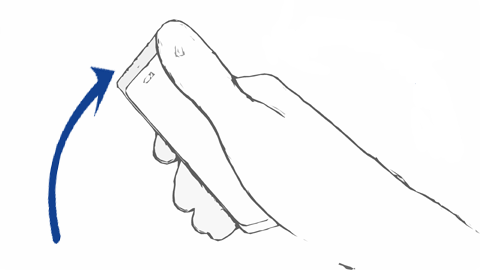
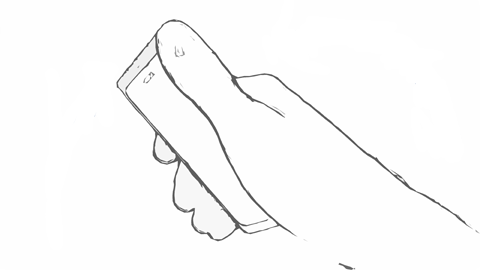
fix slam gesture to be downward only motion.

Changed region(s): [[0.0938, 0.237, 0.25, 0.9185]]

diff --git a/src/plugins/sensorgestures/qtsensors/qslamgesturerecognizer.cpp b/src/plugins/sensorgestures/qtsensors/qslamgesturerecognizer.cpp
@@ -128,8 +128,6 @@ void QSlamSensorGestureRecognizer::orientationReadingChanged(QOrientationReading
 
 #define SLAM_Y_DEGREES 15
 
-#define RADIANS_TO_DEGREES 57.2957795
-
 void QSlamSensorGestureRecognizer::accelChanged(QAccelerometerReading *reading)
 {
     const qreal x = reading->x();
@@ -155,8 +153,6 @@ void QSlamSensorGestureRecognizer::accelChanged(QAccelerometerReading *reading)
 
     const qreal difference = lastX - x;
 
-    roll = qAtan(x / qSqrt(y*y + z*z)) * RADIANS_TO_DEGREES;
-
     if (!timer->isActive()
             && detecting
             && (orientationReading->orientation() == QOrientationReading::RightUp
@@ -164,12 +160,9 @@ void QSlamSensorGestureRecognizer::accelChanged(QAccelerometerReading *reading)
             && resting) {
         timer->start();
     }
-
     if (!detecting
             && orientationReading->orientation() == QOrientationReading::TopUp
-            && roll < SLAM_Y_DEGREES
-            && (difference > accelRange * SLAM_DETECTION_FACTOR
-                || difference < -accelRange * SLAM_DETECTION_FACTOR)) {
+            && hasBeenResting()) {
         detectedX = x;
         // start of gesture
         detecting = true;
@@ -185,14 +178,23 @@ void QSlamSensorGestureRecognizer::accelChanged(QAccelerometerReading *reading)
     lastZ = z;
 }
 
-void QSlamSensorGestureRecognizer:: checkForSlam()
-{
 
+bool QSlamSensorGestureRecognizer::hasBeenResting()
+{
     for (int i = 0; i < restingList.count() - 1; i++) {
         if (!restingList.at(i)) {
-            detecting = false;
-            return;
+            return false;
         }
+    }
+    return true;
+}
+
+void QSlamSensorGestureRecognizer::checkForSlam()
+{
+
+    if (!hasBeenResting()) {
+        detecting = false;
+        return;
     }
 
     if (detecting && (orientationReading->orientation() == QOrientationReading::RightUp // 3 or 4

diff --git a/src/plugins/sensorgestures/qtsensors/qslamgesturerecognizer.h b/src/plugins/sensorgestures/qtsensors/qslamgesturerecognizer.h
@@ -92,6 +92,8 @@ private:
     QList<qreal> restingList;
     bool resting;
     QList<qreal> xList;
+
+    bool hasBeenResting();
 };
 
 QT_END_NAMESPACE
